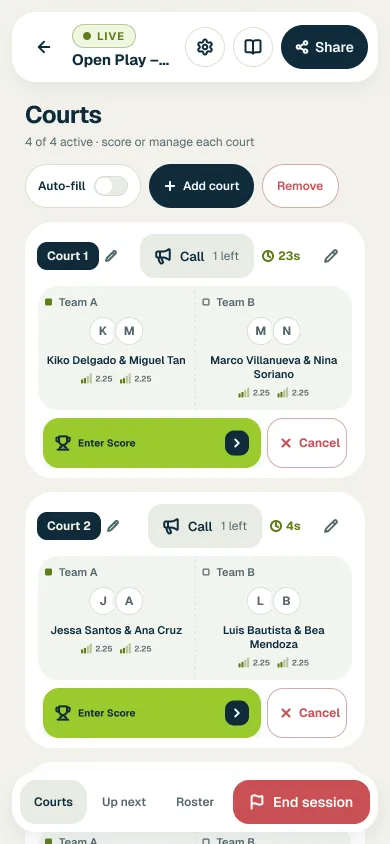
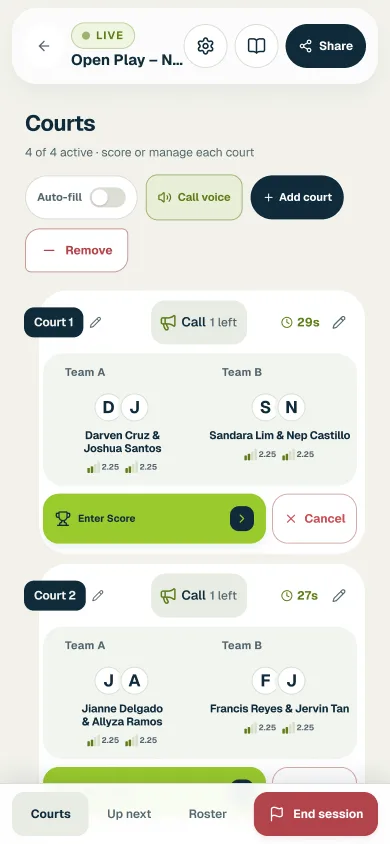
Update the Korte screens from Figma; Atlas shows no phone
Korte: the live courts, TV board, Organizer Hub, Explore, live courts on
a phone and podium screens are re-exported from the updated Korte 3.0
App Screens file (captured 2026-11-22); the social image is re-rendered.
The media build can now refresh chosen projects only.

Atlas has no phone app, so the site no longer shows one: its chapter
shows the laptop alone, its case-study tabs show only the laptop, the
phone-shaped close-ups are removed, the wall's phone tiles never pick
Atlas, and pointing at Atlas fades the wall's phone columns.

diff --git a/src/work/projects.ts b/src/work/projects.ts
@@ -4,7 +4,8 @@
 
 export type ProjectSlug = "space-arabica" | "korte" | "fluxtrack" | "atlas-accountancy";
 export type Shot = { src: string; alt: string; caption: string };
-export type Tab = { title: string; desktop: Shot; phone: Shot };
+/** `phone` is absent for projects with no phone app (Atlas). */
+export type Tab = { title: string; desktop: Shot; phone?: Shot };
 export type Fact = { term: string; detail: string };
 export type Decision = { title: string; problem: string; choice: string; result: string };
 
@@ -18,7 +19,7 @@ export type Project = {
   facts: [Fact, Fact, Fact];
   caption: string;
   desktop: Shot & { title: string };
-  phone: Shot;
+  phone?: Shot;
   question: string;
   intro: string;
   caseFacts: Fact[];
@@ -98,7 +99,7 @@ export const projects: readonly Project[] = [
       { term: "In use", detail: "112 organizers ran 373 meets, Mar–Jun 2026" },
     ],
     caption: "Organizer on a laptop · player on a phone",
-    desktop: { ...korte("live-desktop", "Korte live session with four courts, scores to enter and a backup reminder", "Live courts on a laptop"), title: "Korte — Live courts" },
+    desktop: { ...korte("live-desktop", "Korte live session on a laptop: courts in play with scores to enter, and Up next below", "Live courts on a laptop"), title: "Korte — Live courts" },
     phone: korte("upnext-phone", "Korte player view showing You’re up next, tonight’s record and rankings", "Player · you’re up next"),
     question: "How does one app serve the players, the organizers and the venues of a pickleball community?",
     intro: "Korte is an all-in-one app for the pickleball community in the Philippines. Players find open play, book courts and follow their standings on their phones; organizers create meets and run fair sessions from an iPad or laptop beside the court; venues list their courts, take bookings and put the live courts on a TV. I designed and built all of it, from v1 in March to Korte 3.0 in October.",
@@ -186,9 +187,8 @@ export const projects: readonly Project[] = [
       { term: "Size", detail: "100+ screens & states" },
       { term: "Scope", detail: "Flows, UI, design system" },
     ],
-    caption: "Request · form, comments and journey",
+    caption: "New request · step 3 of 5",
     desktop: { ...atlas("step3-desktop", "Atlas reimbursement request at step 3, payment terms and schedule", "New request · step 3 of 5"), title: "Atlas — New request, step 3" },
-    phone: atlas("form-tall", "Atlas request window stacked three ways: the filled form, its comments and its approval journey", "Form, comments and journey"),
     question: "How do you make a payment request easy to file and easy to follow?",
     intro: "Atlas Accountancy is MMCM’s accountancy module, where requesters file reimbursements, vendor payments and cash advances. As its UI/UX designer, I designed how they file each request and how they track it to a decision.",
     caseFacts: [
@@ -198,10 +198,10 @@ export const projects: readonly Project[] = [
       { term: "Delivered", detail: "Request flows, component library, prototype" },
     ],
     tabs: [
-      { title: "File a request", desktop: atlas("step1-desktop", "Reimbursement step 1, requester information", "Step 1 · requester information"), phone: atlas("form-tall", "The submitted request as a form, comments and journey", "The submitted request, three ways") },
-      { title: "Payment terms", desktop: atlas("step3-desktop", "Reimbursement step 3, payment terms and schedule", "Step 3 · payment terms"), phone: atlas("step3-tall", "Close-up of the payment terms step", "Payment terms, close up") },
-      { title: "Track it", desktop: atlas("journey-desktop", "Request journey tab showing each approval step", "The journey view"), phone: atlas("journey-tall", "Close-up of the request journey", "Who has it, and what’s next") },
-      { title: "My requests", desktop: atlas("list-desktop", "My requests list with status for each request", "Every request in one list"), phone: atlas("list-tall", "Close-up of the requests list and navigation", "Requests, close up") },
+      { title: "File a request", desktop: atlas("step1-desktop", "Reimbursement step 1, requester information", "Step 1 · requester information") },
+      { title: "Payment terms", desktop: atlas("step3-desktop", "Reimbursement step 3, payment terms and schedule", "Step 3 · payment terms") },
+      { title: "Track it", desktop: atlas("journey-desktop", "Request journey tab showing each approval step", "The journey view") },
+      { title: "My requests", desktop: atlas("list-desktop", "My requests list with status for each request", "Every request in one list") },
     ],
     decisions: [
       { title: "One shell for four requests.", problem: "Four request types had different fields but the same life cycle.", choice: "One shell for all of them: a request list, a stepper-driven form, a review step and a journey view.", result: "Learning one request teaches all four." },
@@ -212,7 +212,7 @@ export const projects: readonly Project[] = [
     evidence: "Screens come from the Atlas design file. Signed-in names are replaced with a demo requester. Claims cover the Accountancy module’s design only.",
     wall: {
       desktop: ["step3-desktop", "journey-desktop", "list-desktop", "step1-desktop", "login-desktop"],
-      phone: ["form-tall", "list-tall", "journey-tall", "step1-tall", "step3-tall"],
+      phone: [],
     },
     giantFit: 122,
     glow: "rgba(79, 134, 240, .2)",

diff --git a/src/components/ProjectWorlds.tsx b/src/components/ProjectWorlds.tsx
@@ -17,7 +17,7 @@ const slugFromHash = () => {
 };
 
 type Rect = { x: number; y: number; w: number; h: number };
-type Parts = { chapter: HTMLElement; scene: HTMLElement; info: HTMLElement; words: HTMLElement[]; desk: HTMLElement; screen: HTMLElement; phone: HTMLElement; giant: HTMLElement };
+type Parts = { chapter: HTMLElement; scene: HTMLElement; info: HTMLElement; words: HTMLElement[]; desk: HTMLElement; screen: HTMLElement; phone: HTMLElement | null; giant: HTMLElement };
 /** Everything one frame writes for one chapter. Word groups: 0 label, 1 heading (moves in % inside its mask), 2 line and facts, 3 button. */
 type Pose = {
   shown: boolean; z: number; opacity: number;
@@ -62,7 +62,7 @@ export default function ProjectWorlds({ onActive }: { onActive: (slug: ProjectSl
       words: [...chapter.querySelectorAll<HTMLElement>("[data-word]")],
       desk: chapter.querySelector<HTMLElement>(".showcase-desk")!,
       screen: chapter.querySelector<HTMLElement>(".showcase-desk img")!,
-      phone: chapter.querySelector<HTMLElement>(".showcase-phone")!,
+      phone: chapter.querySelector<HTMLElement>(".showcase-phone"),
       giant: chapter.querySelector<HTMLElement>(".giant")!,
     }));
     const opts = { settle: true };
@@ -139,8 +139,10 @@ export default function ProjectWorlds({ onActive }: { onActive: (slug: ProjectSl
       });
       p.desk.style.transform = o.deskT;
       p.desk.style.opacity = o.deskO === 1 ? "" : o.deskO.toFixed(3);
-      p.phone.style.transform = o.phoneT;
-      p.phone.style.opacity = o.phoneO === 1 ? "" : o.phoneO.toFixed(3);
+      if (p.phone) {
+        p.phone.style.transform = o.phoneT;
+        p.phone.style.opacity = o.phoneO === 1 ? "" : o.phoneO.toFixed(3);
+      }
       const g = p.giant.style;
       g.setProperty("--wd", o.giantW.toFixed(1));
       g.setProperty("--wt", o.giantWt.toFixed(0));
@@ -357,13 +359,13 @@ export default function ProjectWorlds({ onActive }: { onActive: (slug: ProjectSl
                 </dl>
                 <a className="chapter-open" data-word="3" href={asset(`work/${p.slug}/`)}>Open case study<span className="visually-hidden">: {p.name}</span> <span aria-hidden="true">→</span></a>
               </div>
-              <div className="showcase" aria-hidden="true">
+              <div className={`showcase${p.phone ? "" : " showcase--solo"}`} aria-hidden="true">
                 <div className="showcase-desk">
                   <BrowserFrame title={p.desktop.title} src={asset(p.desktop.src)} srcSet={`${asset(small(p.desktop.src))} 640w, ${asset(p.desktop.src)} 1440w`} sizes="(max-width: 860px) 90vw, 54vw" alt="" morph={active === i} />
                 </div>
-                <div className="showcase-phone">
+                {p.phone && <div className="showcase-phone">
                   <PhoneFrame src={asset(p.phone.src)} srcSet={`${asset(small(p.phone.src))} 300w, ${asset(p.phone.src)} 780w`} sizes="(max-width: 860px) 30vw, 14vw" alt="" />
-                </div>
+                </div>}
                 <p className="showcase-caption label">{p.caption}</p>
               </div>
               <p className="giant" aria-hidden="true"><span>{p.name}</span></p>

diff --git a/src/components/ScreenWall.tsx b/src/components/ScreenWall.tsx
@@ -9,9 +9,10 @@ const lists = projects.map(p => p.wall);
 
 function tileSrc(which: Show, type: "d" | "p", col: number, i: number) {
   const index = which === "all" ? "all" : projects.findIndex(p => p.slug === which);
-  const { project, name } = wallSource(index, type === "d" ? "desktop" : "phone", col, i, lists);
-  return asset(`media/work/${projects[project].slug}/wall/${name}.webp`);
+  const source = wallSource(index, type === "d" ? "desktop" : "phone", col, i, lists);
+  return source && asset(`media/work/${projects[source.project].slug}/wall/${source.name}.webp`);
 }
+const phoneless = (show: Show) => show !== "all" && projects.find(p => p.slug === show)?.wall.phone.length === 0;
 
 const reducedMotion = () => typeof matchMedia !== "undefined" && matchMedia("(prefers-reduced-motion: reduce)").matches;
 
@@ -47,7 +48,8 @@ export default function ScreenWall({ show, hidden }: { show: Show; hidden: boole
       const front = a.classList.contains("on") ? a : b;
       const back = front === a ? b : a;
       const src = tileSrc(target, tile.dataset.t as "d" | "p", Number(tile.dataset.c), Number(tile.dataset.i));
-      if (front.getAttribute("src") === src) return;
+      // A project without a phone app keeps the phone tiles as they are; its phone columns fade out instead.
+      if (!src || front.getAttribute("src") === src) return;
       back.src = src;
       back.decode().catch(() => undefined).then(() => {
         if (shown.current !== target || !back.complete || back.naturalWidth === 0) return;
@@ -88,8 +90,8 @@ export default function ScreenWall({ show, hidden }: { show: Show; hidden: boole
             const i = k % count;
             return (
               <div className="tile" key={k} data-t={type} data-c={c} data-i={i} style={{ "--i": (c * 2 + i) % 20 } as React.CSSProperties}>
-                <img className="on" src={tileSrc("all", type, c, i)} alt="" decoding="async" />
-                <img src={tileSrc("all", type, c, i)} alt="" decoding="async" />
+                <img className="on" src={tileSrc("all", type, c, i)!} alt="" decoding="async" />
+                <img src={tileSrc("all", type, c, i)!} alt="" decoding="async" />
               </div>
             );
           })}
@@ -102,7 +104,7 @@ export default function ScreenWall({ show, hidden }: { show: Show; hidden: boole
   const glow = pointing ? projects.find(p => p.slug === current)?.glow : undefined;
   return (
     <>
-      <div ref={wall} className={`wall${hidden ? " off" : ""}`} aria-hidden="true" data-show={current}>
+      <div ref={wall} className={`wall${hidden ? " off" : ""}${phoneless(current) ? " no-phones" : ""}`} aria-hidden="true" data-show={current}>
         <div className="wall-tilt">{columns}</div>
       </div>
       <div ref={shade} className={`wall-shade${hidden ? " off" : ""}`} aria-hidden="true" />

diff --git a/src/motion/scroll.ts b/src/motion/scroll.ts
@@ -139,9 +139,12 @@ export function wallColumn(index: number): { dir: 1 | -1; speed: number; duratio
 
 type ScreenLists = { desktop: string[]; phone: string[] };
 
-/** Which project's screen a tile shows: a mix of all projects, or only the one being pointed at. */
+/** Which project's screen a tile shows: a mix of all projects, or only the one being pointed at.
+ *  Phone tiles never show a project without a phone app; pointing at one returns null (its phone columns hide). */
 export function wallSource(which: "all" | number, type: "desktop" | "phone", col: number, i: number, lists: ScreenLists[]) {
-  const project = which === "all" ? (col * 3 + i) % lists.length : which;
+  const pool = lists.map((_, k) => k).filter(k => lists[k][type].length > 0);
+  if (which !== "all" && !pool.includes(which)) return null;
+  const project = which === "all" ? pool[(col * 3 + i) % pool.length] : which;
   const list = lists[project][type];
   const index = which === "all" ? (col + i) % list.length : (col * 2 + i) % list.length;
   return { project, name: list[index] };

diff --git a/src/components/ScreenTabs.tsx b/src/components/ScreenTabs.tsx
@@ -57,8 +57,8 @@ export default function ScreenTabs({ tabs, title }: { tabs: Tab[]; title: string
         ))}
       </div>
       {tabs.map((tab, i) => (
-        <div key={tab.title} role="tabpanel" id={`panel-${i}`} aria-labelledby={`tab-${i}`} hidden={i !== active} className="tab-panel">
-          {([["desk", tab.desktop], ["phone", tab.phone]] as const).map(([kind, shot]) => (
+        <div key={tab.title} role="tabpanel" id={`panel-${i}`} aria-labelledby={`tab-${i}`} hidden={i !== active} className={`tab-panel${tab.phone ? "" : " tab-panel--solo"}`}>
+          {([["desk", tab.desktop], ["phone", tab.phone]] as const).flatMap(([kind, shot]) => (shot ? [[kind, shot] as const] : [])).map(([kind, shot]) => (
             <figure className={`tab-shot tab-shot--${kind}`} key={kind}>
               <div className="tab-shot__frame">
                 {kind === "desk"

diff --git a/src/components/screen-wall.css b/src/components/screen-wall.css
@@ -7,7 +7,9 @@
 .wall-tilt { scale: calc(1 + var(--dive, 0) * 1.4); }
 /* The blur is only set while diving, so the wall carries no filter the rest of the time. */
 @media (min-width: 861px) { .wall { filter: var(--dive-blur, none); } }
-.col { flex: none; width: var(--cw); will-change: transform; }
+.col { flex: none; width: var(--cw); will-change: transform; transition: opacity .5s var(--ease-in-out-entry); }
+/* Pointing at a project without a phone app (Atlas): only its desktop screens stay. */
+.wall.no-phones .col--phone { opacity: 0; }
 .col--desk { --cw: 300px; }
 .col--phone { --cw: 140px; }
 .col-track { display: flex; flex-direction: column; gap: 18px; animation: wall-drift var(--dur, 80s) linear infinite; }

diff --git a/src/components/worlds.css b/src/components/worlds.css
@@ -25,6 +25,8 @@
 .showcase { --sw: min(60vw, 1000px, calc((100svh - 250px) * 1.6)); position: absolute; right: var(--pad); top: calc(50% - 30px); width: var(--sw); aspect-ratio: 1.6; translate: 0 -50%; z-index: 2; }
 .showcase-desk { position: absolute; right: 0; top: 0; width: 90%; will-change: transform; }
 .showcase-phone { position: absolute; left: 0; bottom: -7%; height: 82%; aspect-ratio: .462; will-change: transform; }
+/* A project without a phone app: the laptop takes the whole showcase. */
+.showcase--solo .showcase-desk { width: 100%; }
 .showcase-phone .frame { height: 100%; }
 .showcase-caption { position: absolute; right: 0; bottom: calc(100% + 12px); white-space: nowrap; }
 

diff --git a/src/pages/case.css b/src/pages/case.css
@@ -24,6 +24,7 @@
 .tablist [role="tab"][aria-selected="true"] { background: var(--ink); color: var(--ground); border-color: var(--ink); }
 .tab-panel { display: grid; grid-template-columns: minmax(0, 1.6fr) minmax(0, .62fr); gap: 24px; align-items: end; margin-top: 28px; }
 .tab-panel[hidden] { display: none; }
+.tab-panel--solo { grid-template-columns: minmax(0, 1fr); max-width: 1100px; }
 .tab-shot figcaption { margin-top: 10px; }
 .tab-shot__frame { position: relative; }
 .tab-shot--phone .frame { width: 100%; }

diff --git a/docs/designs/implementation-checks.md b/docs/designs/implementation-checks.md
@@ -15,10 +15,10 @@ Current build: the dark “Index & Worlds” redesign (design: `docs/superpowers
 
 ## Results (2026-11-22, push-through transitions, branch redesign/index-worlds)
 
-- `npm test`: 30 passed, 0 failed.
+- `npm test`: 32 passed, 0 failed.
 - `npm run typecheck`, `npm run lint`: clean.
 - `npm run build`: five routes prerendered; JS 60.0 KB and CSS 5.7 KB gzipped.
-- `npm run check:browser`: 45 of 45 passed (Chromium 153), including seven added from the final review and one for long names; `node scripts/check-static.mjs`: passed.
+- `npm run check:browser`: 46 of 46 passed (Chromium 153), including seven added from the final review, one for long names and one that Atlas shows no phone; `node scripts/check-static.mjs`: passed.
 - Frame budget, wheel-scrolling the arrival and all three moves at 1440×900 on this laptop's integrated AMD Radeon (D3D11): p95 16.7 ms, no frame over 20 ms; a warm arrival p95 16.8 ms. At 4× CPU throttle p95 33 ms. Headless Chromium draws in software by default (SwiftShader), where the blurs cost several times more (p95 33–50 ms); the budget is judged on the GPU.
 - Known cost: a visitor's very first arrival (cold page) drops 7–12 frames on that GPU, against 1 for the old circle; every later pass holds 60 fps. It is the sum of the new effects (wall dive, chapter blur, the screen-blend flash, giant stretch); no single one removes it. The check fails above 14.
 - Frames reviewed at .2, .4, .5, .6, .75 and .95 of the first move at 1440×900, 390×844 and 844×390, plus the first arrival.
